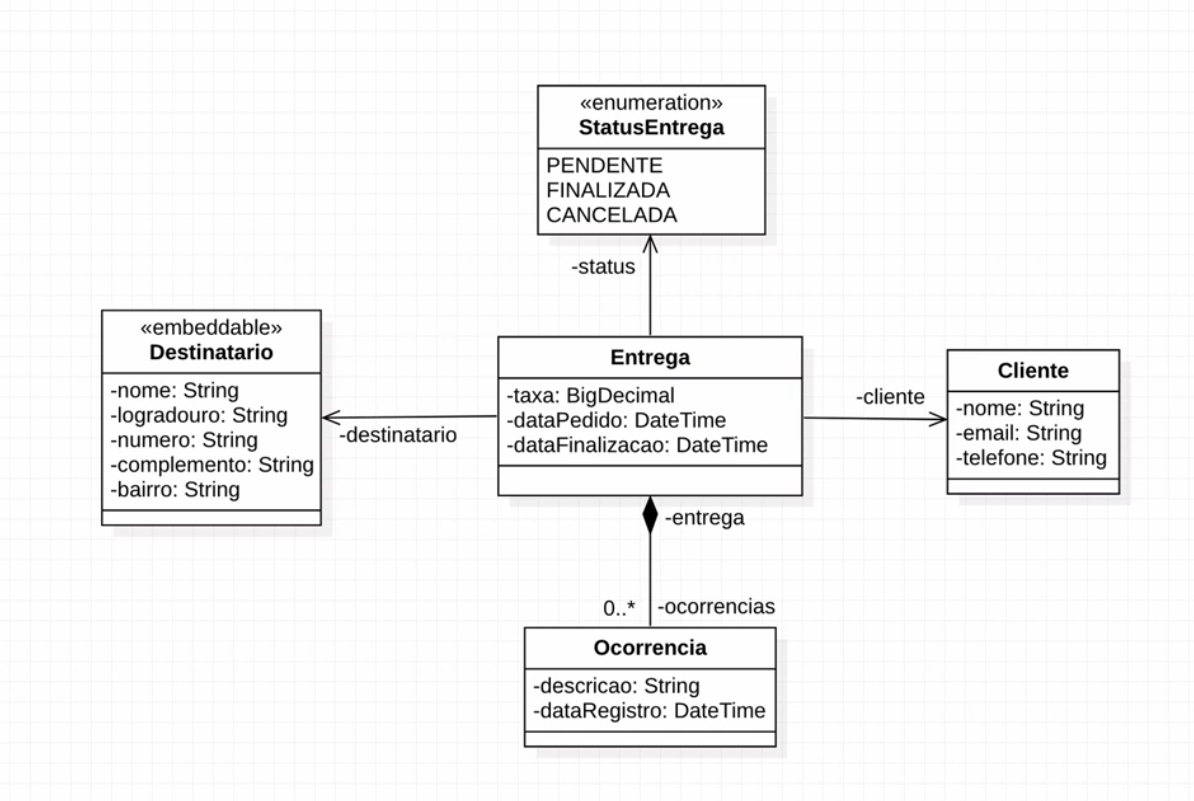
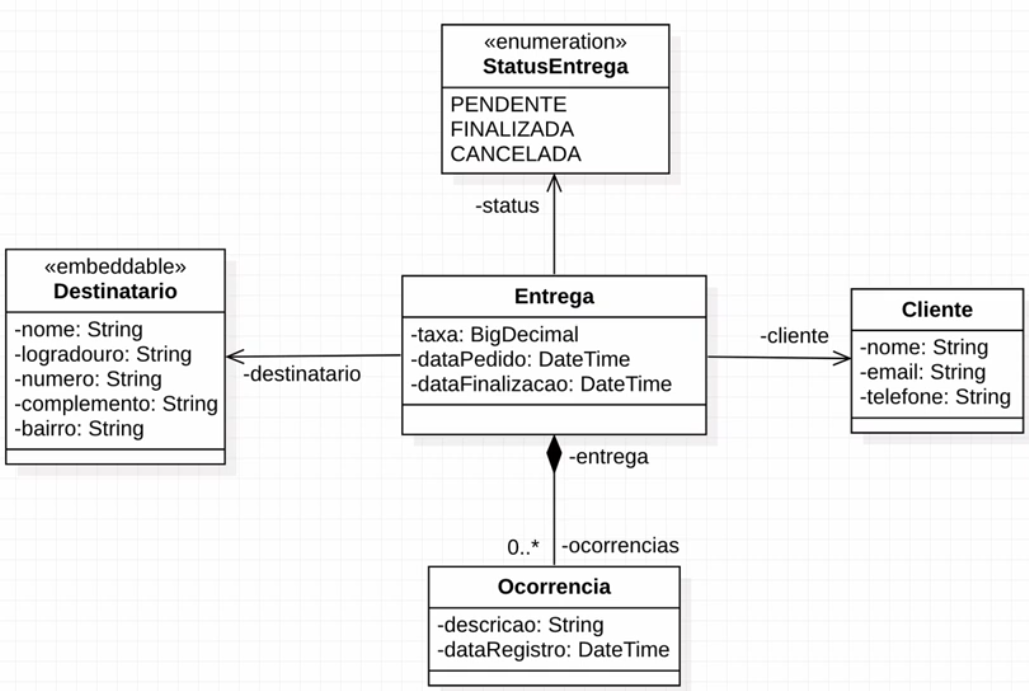
docs(readme): inclui vídeo de apresentação do projeto e ajusta imagem

Changed region(s): [[0.0, 0.0304, 1.0, 1.0]]

diff --git a/README.md b/README.md
@@ -15,7 +15,7 @@ Projeto Back-end "Rest API" de um `Sistema de Gerenciamento de Entregas`, implem
 
 Trata-se de um <b>sistema básico para gerência de entregas</b>, através do cadastro dos principais dados de uma entrega, o registro dos vínculos com o respectivo Cliente e Destinatário, e o controle do fluxo da entrega, por meio do Status da entrega. Ainda, possibilita o registro histórico de possíveis ocorrências relacionadas as entregas.
 
-<p align="center"><img alt="Imagem do Projeto" id="imagem" title="#Projeto" width="395px" height="395px" src="https://raw.githubusercontent.com/aguiardafa/gerenciamento-entregas-api/main/.github/Image.png" /></p>
+<p align="center"><img alt="Imagem do Projeto" id="imagem" title="#Projeto" height="400px" src="https://raw.githubusercontent.com/aguiardafa/gerenciamento-entregas-api/main/.github/Image.png" /></p>
 
 Foi implementado com fins acadêmicos, sendo construído como atividade do curso `Mergulho Spring REST (MSR)`, ocorrido de 10 a 17 de janeiro de 2022, promovido pela [AlgaWorks](https://www.algaworks.com/).
 
@@ -68,11 +68,13 @@ As seguintes tecnologias/ferramentas/conceitos foram utilizadas na construção 
 
 ## Sobre o Curso Mergulho Spring REST (MSR)
 
-O curso é bem básico e voltado para quem nunca desenvolveu uma REST API com Java e Spring. Contudo, possui uma abordagem bem didática e sempre fundamenta nos conceitos e boas práticas do mercado, sendo válido também como reforço para quem já possui experiência com a tecnologia utilizada.
+O curso é bem básico e voltado para quem nunca desenvolveu uma REST API com Java e Spring. Contudo, possui uma abordagem bem didática e sempre fundamentada nos conceitos e documentações, bem como nas boas práticas do mercado. Assim sendo, também faz-se válido como reforço para quem já possui experiência com a tecnologia utilizada.
 
 É 100% online e gratuito, e aborda os fundamentos de REST, os Métodos e Códigos de status HTTP, a conceituação do Ecossistema Spring, a implementação de um Sistema Back-end (REST API) Java com Spring Boot e Spring MVC, a persistência de dados com Jakarta Persistence, Spring Data JPA e Flyway, validações com Bean Validation e tratamento de exceptions.
 
 Link para o curso [Mergulho Spring REST (MSR)](https://msr.algaworks.com/)
+
+<p align="center"><img alt="Vídeo do Projeto" id="video1" title="#VideoProjeto" height="450px" src="https://raw.githubusercontent.com/aguiardafa/gerenciamento-entregas-api/main/.github/Video1.gif" /></p>
 
 ## 👨💻Autor
 
